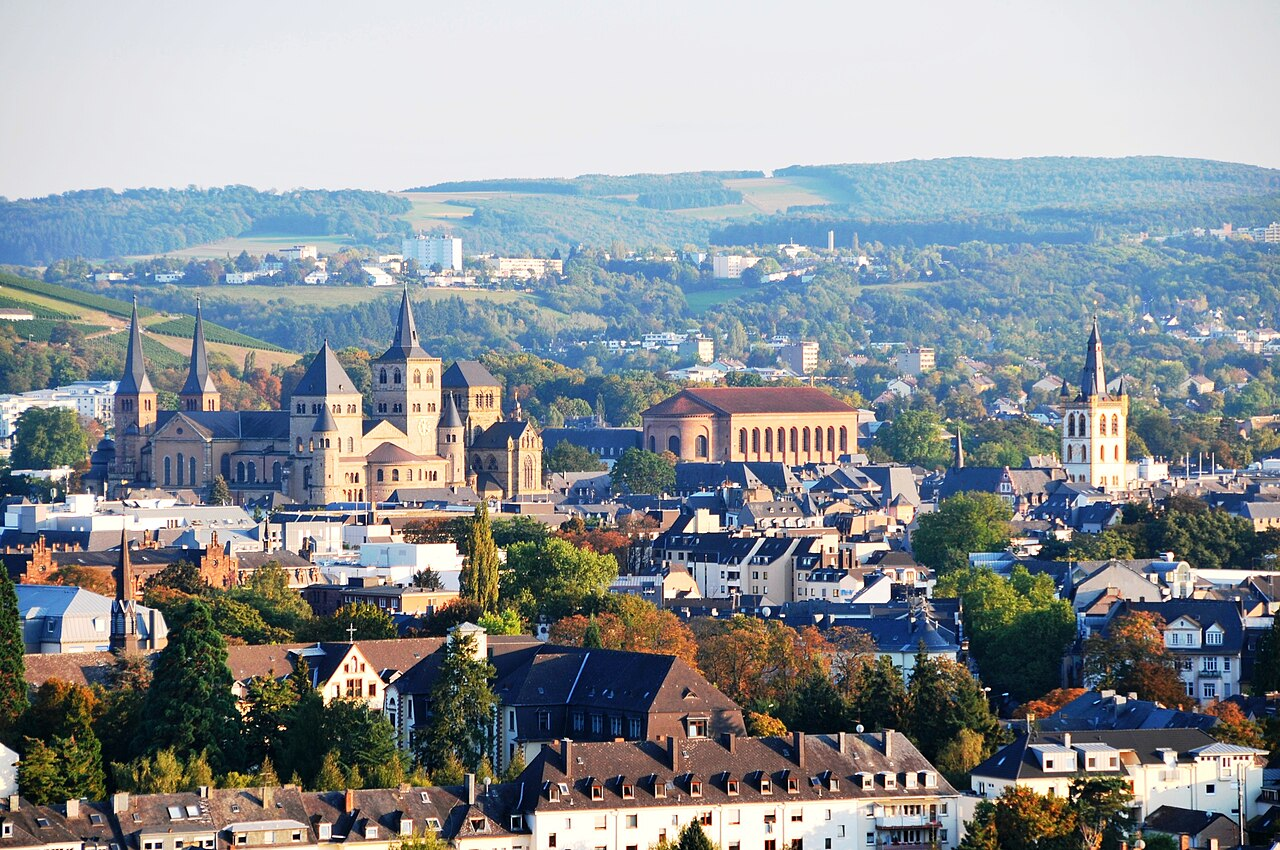
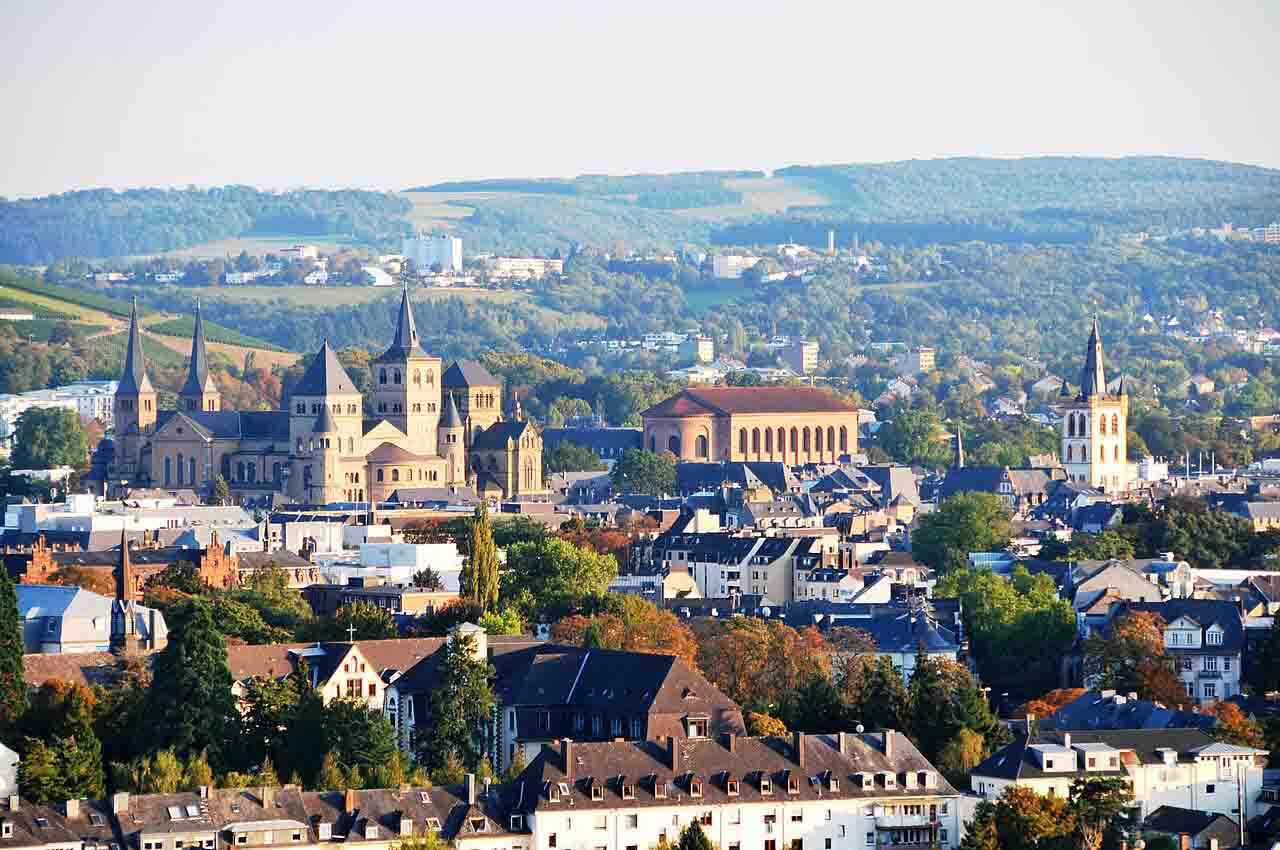
Describe your corrections here

Changed region(s): [[0.0, 0.2447, 1.0, 1.0], [0.2188, 0.52, 0.25, 0.5506]]

diff --git a/index.html b/index.html
@@ -9,14 +9,16 @@
 
 <body>
 
-    <head>
-        <a href="#">Home</a>
-        <a href="wwr/">Daniel Website</a>
-    </head>
+    <header>
+        <nav>
+            <a href="#">Home</a>
+            <a href="wwr/">Rafting Website</a>
+        </nav>
+    </header>
+
     <main>
         <h1>DANIEL ADEDAYO KALE</h1>
-        <img src="images/DanielKale.jpg" alt="danielkale." width="200">
-
+        <img src="images/DanielKale.jpg" alt="daniel kale pix." width="200">
         <p>My name is Daniel Kale. I live in Ikorodu, Lagos, Nigeria. <br>I am a beginner web
             designer
             who has recently started learning how to design and build websites. <br>I am interested
@@ -27,12 +29,12 @@
             in the
             future.
         </p>
-
-
     </main>
+
     <footer>
         <p>The copyright©2026 ✍ Daniel Kale ✍ Ikorodu-Lagos State, Nigeria.</p>
     </footer>
+
 </body>
 
 </html>
